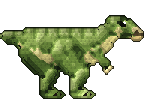
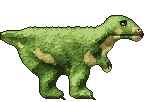
Thescelosaurus painted in HD
The little runner painted over its drawing: a lean green body lit as
masses, fine scales with a row of small scutes down the back, its cream
flank stripe, throat and thigh kept, a muscled running thigh, a brown-
tipped beak, the little arm with its claws and clawed toes.

Changed region(s): [[0.0, 0.1471, 0.96, 1.0], [0.4267, 0.9706, 0.4533, 1.0]]

diff --git a/internal/dinopaint/thesc.go b/internal/dinopaint/thesc.go
@@ -1,0 +1,114 @@
+package dinopaint
+
+// The little runner: dinos/thesc.png, 50 x 34, facing right, a
+// Thescelosaurus. Its rig is "thesc" in internal/client/dinorigs.go: hips
+// (27, 20) and (17.5, 20), knees (28.5, 25) and (18.5, 25), ankles (25, 28)
+// and (15, 28), the balls of the feet (25.5, 31.5) and (15.5, 31.5), the
+// toes' tips (31, 32.5) and (21, 32.5); the head turns about (33, 10.5),
+// the beak opens about (41, 11) along the line to (47, 11.4), the tail
+// swings about (12, 13).
+
+var (
+	thescEye  = []uint32{0x120a06, 0x24140a, 0x3e2610, 0x5c3a16, 0x7e521e, 0xa06e2a}
+	thescClaw = []uint32{0x1e1a10, 0x3c3626, 0x645c44, 0x928a6c, 0xbeb696, 0xe0dabe}
+)
+
+func init() { Register(thesc()) }
+
+func thesc() *Species {
+	farLeg := Union(
+		Cone(17.5, 18.8, 4.2, 18.5, 25, 2.4), // thigh
+		Cone(18.5, 25, 2.2, 15, 28, 1.6),     // shin
+		Cone(15, 28, 1.5, 15.5, 31.2, 1.2),   // metatarsus
+		Cone(15.4, 31.6, 1.25, 20.6, 32.5, 0.7),
+	)
+	tail := Path([3]float64{-0.6, 11, 0.7}, [3]float64{6, 11.2, 1.7}, [3]float64{12.5, 12.2, 3.6})
+	body := Blend(2.5,
+		tail,
+		Ellipse(21, 15.6, 11.6, 6.6, 0.04), // the trunk, deep at the hips
+		Cone(31, 13.6, 4.6, 36, 11, 3.0),   // the chest and the neck
+	)
+	head := Blend(1.5,
+		Cone(34, 11.6, 3, 38, 9.6, 2.6),
+		Poly(36.4, 8.2, 37.6, 5.6, 40.4, 4.9, 43.2, 6.2, 45.6, 8.3, 47.4, 10.2, 47.5, 12.4, 45.6, 13.3, 41, 13.1, 37.5, 12.8, 35.4, 12.2),
+	)
+	jaw := Poly(37.8, 11.6, 46.6, 11.6, 47.3, 12.5, 45.6, 13.3, 41, 13.1, 37.8, 12.8)
+	beak := Poly(45.2, 10.4, 46.8, 10, 47.7, 11, 47.5, 12.6, 46, 13.1, 45, 12.4)
+	arm := Union(
+		Cone(34.2, 16.2, 1.5, 35.6, 19.4, 1.0), // upper arm
+		Cone(35.6, 19.4, 0.95, 36.8, 21.2, 0.62),
+	)
+	nearLeg := Union(
+		Cone(27, 18.4, 4.7, 28.5, 25, 2.6), // the thigh, muscled for running
+		Cone(28.5, 25, 2.4, 25, 28, 1.7),   // shin
+		Cone(25, 28, 1.6, 25.5, 31.2, 1.3), // metatarsus
+		Cone(25.4, 31.6, 1.3, 30.7, 32.5, 0.75),
+	)
+	return &Species{
+		Name:        "thesc",
+		GuideDetail: 0.45,
+		Ink:         30,
+		Materials: []Material{
+			{Name: "hide", Seeds: []uint32{0x6a883b, 0x8faa55, 0x4a652a, 0x30441d, 0xb6ca7a, 0x1c2814, 0x223116},
+				Ramp: []uint32{0x1c2a10, 0x2a3e16, 0x3a541e, 0x4c6a28, 0x628434, 0x7a9e42, 0x96b85a, 0xb6d07a}},
+			{Name: "cream", Seeds: []uint32{0xb8b06e, 0xdcd594, 0xd4c488, 0x8a8450, 0xac9860},
+				Ramp: []uint32{0x524a26, 0x6e6634, 0x8a8244, 0xa49c56, 0xbab268, 0xccc47a, 0xdcd690, 0xeae6aa}, Relief: 0.7, Smooth: 0.55, Bias: 0.08},
+			{Name: "beak", Ramp: []uint32{0x221a0e, 0x342816, 0x4a3a20, 0x60502c, 0x786638, 0x907e48, 0xa8965a, 0xc0ae70}, Relief: 0.3,
+				Region: beak},
+		},
+		Parts: []Part{
+			{Name: "farLeg", Shape: farLeg, Far: true, Round: 2.4, Soft: 0.6, Scale: 0.8, Muscles: []Muscle{
+				Mu(17.5, 20, 3.2, 3.6, 0.2, 1.1),   // the thigh
+				Mu(16.8, 26.2, 1.4, 1.8, 0.8, 0.5), // the calf
+			}},
+			{Name: "body", Shape: body, Round: 5, Soft: 0.65, Muscles: []Muscle{
+				Mu(24, 13.5, 7, 3.6, 0, 0.9),     // the hips
+				Mu(19, 16.5, 6, 4.5, 0, 0.8),     // the belly and ribs
+				Mu(31.5, 14.5, 3, 3.4, 0.3, 0.9), // the chest
+				Mu(10, 12, 5.5, 1.8, 0, 0.7),     // the tail's muscle
+				Mu(20, 10.6, 10, 1.4, 0, 0.5),    // the long muscles of the back
+			}},
+			{Name: "head", Shape: head, Round: 2.4, Soft: 0.5, Scale: 0.65, Onto: "body", Seam: Below(30, 15.5, 38, 13.5), Muscles: []Muscle{
+				Mu(38.5, 9.2, 2.2, 2, 0, 0.9),      // the cheek
+				Mu(41, 6.4, 1.6, 0.8, 0, 0.8),      // the brow over the eye
+				Mu(44.6, 9.4, 1.8, 1.2, 0.3, 0.6),  // the snout
+				Mu(35.4, 10.8, 1.8, 2.2, 0.4, 0.7), // the neck
+			}},
+			{Name: "jaw", Shape: jaw, Round: 1.2, Soft: 0.45, Scale: 0.6, Muscles: []Muscle{
+				Mu(41, 12.4, 3, 0.8, 0, 0.4),
+			}},
+			{Name: "arm", Shape: arm, Round: 1.0, Soft: 0.4, Scale: 0.55, Onto: "body", Seam: Below(32, 17, 38, 17), Muscles: []Muscle{
+				Mu(34.8, 17.6, 1.1, 1.6, 0.4, 0.4),
+			}},
+			{Name: "nearLeg", Shape: nearLeg, Round: 3, Soft: 0.6, Onto: "body", Seam: Below(15, 21, 34, 19), Muscles: []Muscle{
+				Mu(27, 19.5, 3.6, 4, 0.2, 1.3),                                    // the thigh
+				Mu(29.6, 21.2, 1.4, 2.6, -0.4, 0.6),                               // its front
+				Mu(26.8, 26.2, 1.4, 1.8, 0.8, 0.6),                                // the calf
+				Mu(27.2, 32, 0.9, 0.6, 0, 0.3), Mu(29.2, 32.3, 0.8, 0.5, 0, 0.25), // knuckles
+			}},
+		},
+		Skin: Skin{Flank: 1.35, Back: 2.0, Belly: 1.05, BackDepth: 3, BellyDepth: 3, Relief: 1.1, Seed: 53},
+		Osteoderms: []Row{
+			// A row of little scutes down the back, as the drawing's flecks.
+			{X0: 6, X1: 33, Off: 0.6, Gap: 1.9, R: 0.55, Crest: 0.3, Parts: []string{"body"}},
+		},
+		Folds: []Fold{
+			{Pts: []float64{35.6, 9, 35, 11, 35.2, 13}, N: 2, DX: 1.1, DY: -0.2, Depth: 0.8}, // the neck
+			{Pts: []float64{27.6, 24.2, 29, 25.6}, N: 1, Depth: 0.8},                         // behind the knee
+			{Pts: []float64{24.4, 29.2, 26.2, 29.1}, N: 2, DY: 1.1, Depth: 0.6},              // the metatarsus
+			{Pts: []float64{27.6, 31.4, 27.6, 33}, N: 2, DX: 1.7, Depth: 0.8},                // the toes' knuckles
+			{Pts: []float64{37.6, 11.6, 41, 11.7, 45.6, 11.5}, N: 1, Depth: 1.4},             // the line of the mouth
+		},
+		Details: thescDetails,
+	}
+}
+
+func thescDetails(p *Painter) {
+	p.Eye(EyeSpec{X: 41.2, Y: 7.7, R: 0.78, Iris: thescEye, Lid: 0.22, Squint: 1.2})
+	p.Nostril(46.2, 9.9, 0.4, 0.28, -0.3)
+	// The toes' claws, the far foot's darker; the little hand's.
+	p.Claw(30.3, 32.3, 31.9, 33.1, 0.8, 0.2, thescClaw)
+	p.Claw(20.3, 32.3, 21.9, 33.1, 0.7, 0.2, thescClaw[:4])
+	p.Claw(36.5, 21, 37.4, 22.7, 0.55, 0.2, thescClaw)
+	p.Claw(36, 21.2, 36.3, 22.8, 0.5, 0.15, thescClaw[:4])
+}

diff --git a/internal/client/dinos/hd/gen.py b/internal/client/dinos/hd/gen.py
@@ -23,7 +23,7 @@ HERE = os.path.dirname(os.path.abspath(__file__))
 # teeth: the box of the mouth, where pale pixels are teeth.
 # Painted by hand-written descriptions in Go instead (internal/dinopaint,
 # cmd/dinopaint; see README.md here): this script leaves them alone.
-PAINTED = {'rex', 'trike', 'toro', 'stego'}
+PAINTED = {'rex', 'trike', 'toro', 'stego', 'thesc'}
 
 CFG = {
     'rex':         dict(skin='scale', cell=(5, 4), eyes=[(87, 20, 88, 20)], slit=True, teeth=(82, 31, 105, 34)),
